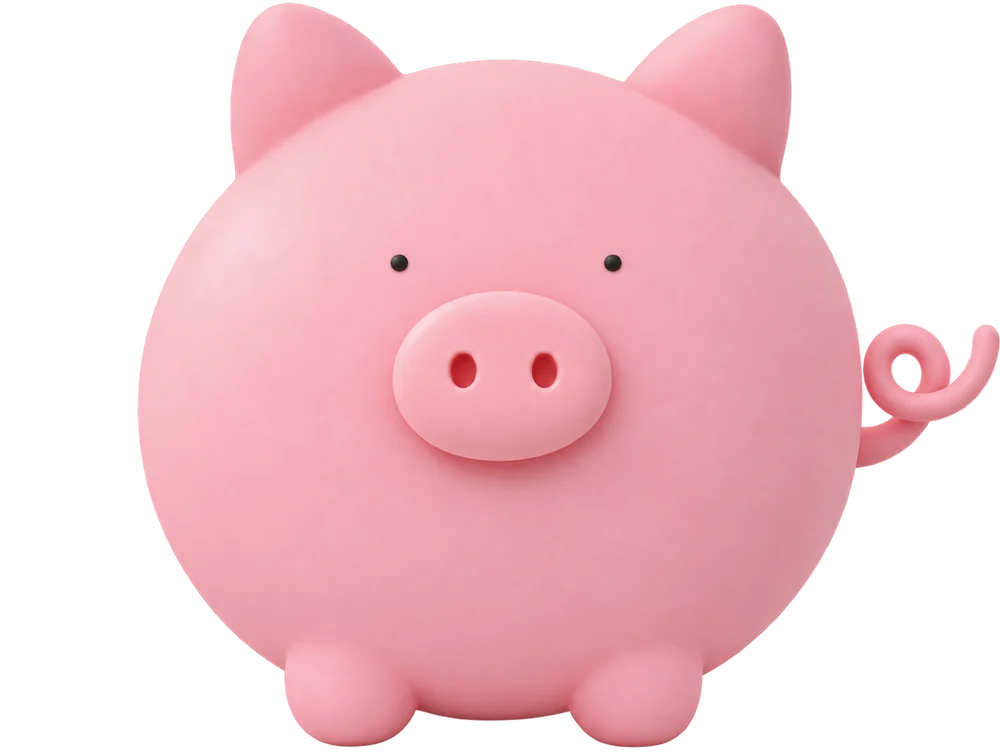
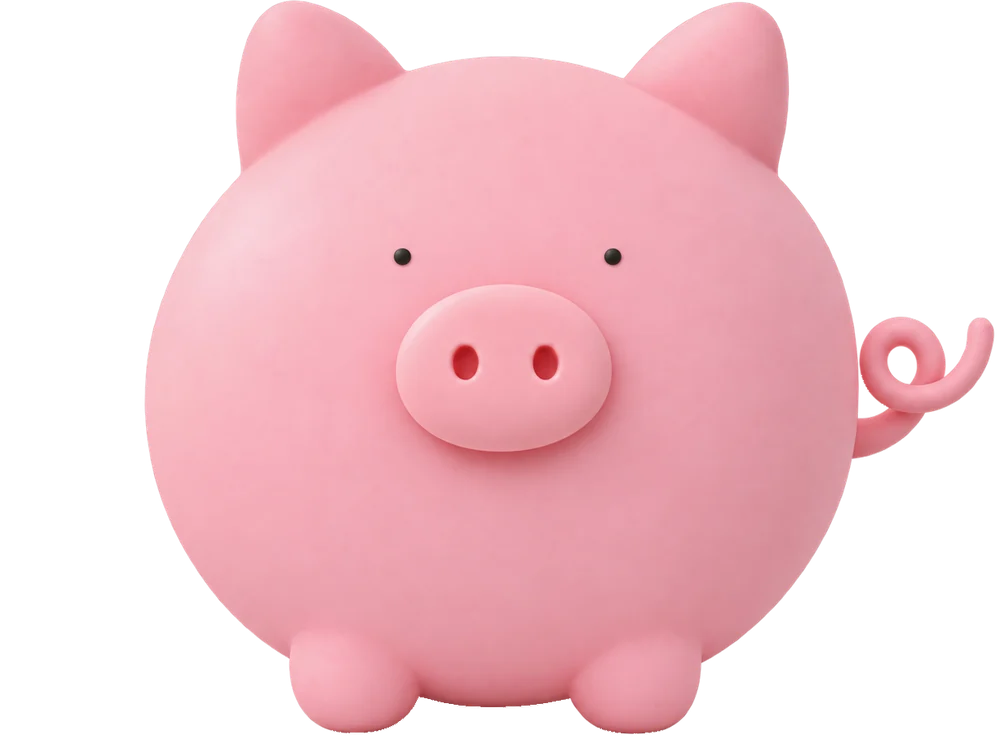
deploy(app): 52f4def 시작 화면 2 돼지 전체 표시, 래치 보호, 냄새 눈금, 표정 이미지

diff --git a/app/app.js b/app/app.js
@@ -1,8 +1,8 @@
 // Oink 사용자용 웹앱: 브라우저가 wss로 브로커에 직접 접속(서버 없음). 판정 로직은 logic.mjs
 import { rate, co2Slope, decompProgress, decompStage, co2TrendText, addFeed, homeState, homeText, stateEvents, addEvents, recent,
-  DEMO_SPEED, DECOMP_END_H, PEAK_H, AMP_DEFAULT, curveH, predictPpm, activity, capPoints, hotFoodStep, HOT_MSG_OFF, HOT_MSG_AUTO, autoRange, CO2_MAX, HOLD_RESEND_MS,
+  DEMO_SPEED, DECOMP_END_H, PEAK_H, AMP_DEFAULT, curveH, predictPpm, activity, capPoints, hotFoodStep, hotHeaterGuard, HOT_MSG_OFF, HOT_MSG_AUTO, HOT_MSG_BLOCKED, autoRange, CO2_MAX, HOLD_RESEND_MS,
   heatModeOf, heaterCmds, restoreMode, dbCo2Points, mergeCo2, pickFeedTs, dqBadge,
-  DB_RAW_MS, db1mPoints, joinAggRaw, dbEvents, mergeEvents, faultWord, deviceNote, ctrlTargetOf } from "./logic.mjs";
+  DB_RAW_MS, db1mPoints, joinAggRaw, dbEvents, mergeEvents, faultWord, deviceNote, ctrlTargetOf, isTwoBoard, b1SrcLabel, srcBadge, co2CardValue, tempCardValue, odorCard, LOCAL_TARGET_C } from "./logic.mjs";
 
 const T = {
   status: "oink/gateway/status",
@@ -11,9 +11,10 @@ const T = {
   cmd: "oink/gateway/cmd",
   ack: "oink/gateway/cmd/ack", // firmware2: {"id","ok","msg"}
 };
-// 펌웨어 #1이 아직 가짜값(USE_FAKE_SENSORS) — 실측 전환 시 false로. CO₂·심부온도 배지가 "시험값"/"실측"으로 바뀐다.
-const FAKE_B1 = true;
-const B1_SRC = FAKE_B1 ? "시험값" : "실측";
+// 현재 2보드(firmware2/oink2_pig)는 가짜값 코드가 없어 #1 값은 모두 실측. true는 가짜값을 쓰는 펌웨어를 붙일 때만.
+const FAKE_B1 = false;
+const b1Src = () => b1SrcLabel(isTwoBoard(gw.tele, gw.status), FAKE_B1);
+const setSrcBadge = (el, val) => { const s = srcBadge(val, b1Src()); el.hidden = !s; el.textContent = s; el.classList.toggle("real", s === "실측"); el.classList.toggle("test", s === "시험값"); };
 const HEAT_TIMEOUT_MS = 10000; // 보낸 모드가 telemetry board2.mode에 반영될 때까지
 const GRAPH_MS = 10 * 60 * 1000;
 const $ = (id) => document.getElementById(id);
@@ -124,8 +125,15 @@ async function pollDbStatus() {
 }
 const co2All = () => mergeCo2(co2Hist, dbPts);
 
-for (const el of document.querySelectorAll(".b1src")) { el.textContent = B1_SRC; el.classList.toggle("real", !FAKE_B1); el.classList.toggle("test", FAKE_B1); }
-if ("serviceWorker" in navigator) navigator.serviceWorker.register("sw.js").catch(() => {});
+if ("serviceWorker" in navigator) {
+  // 새 버전이 활성화되면 한 번 새로고침(캐시 우선이라 안 하면 배포 후 첫 화면이 옛 CSS·JS). 처음 설치(이전 controller 없음)엔 하지 않음.
+  const hadCtrl = !!navigator.serviceWorker.controller;
+  let reloaded = false;
+  navigator.serviceWorker.addEventListener("controllerchange", () => { if (hadCtrl && !reloaded) { reloaded = true; location.reload(); } });
+  navigator.serviceWorker.register("sw.js").then((r) => { // 폰 앱은 켜 둔 채 돌아오는 일이 많아 복귀 때도 확인
+    document.addEventListener("visibilitychange", () => { if (!document.hidden) r.update().catch(() => {}); });
+  }).catch(() => {});
+}
 
 $("devName").value = store.get("oink.dev") || (/Mobi|Android|iPhone/i.test(navigator.userAgent) ? "내 폰" : "내 PC");
 $("devName").addEventListener("change", () => store.set("oink.dev", $("devName").value.trim()));
@@ -163,6 +171,7 @@ const valid = (b1) => b1?.co2_status === 1 && Number.isFinite(b1.co2_ppm);
 
 // ---- 예측(점선) vs 실측(실선) CO₂, x = 투입 후 곡선 시간 0~7일, y = ppm 한 축 ----
 function predGraph(svg, feedTs, now) {
+  setSrcBadge($("srcPred"), null); // 실측선이 그려질 때만 표시
   const W = 320, H = 190, L = 42, R = 10, Tp = 14, B = 24;
   if (!feedTs) { svg.innerHTML = `<text x="${W / 2}" y="${H / 2}" text-anchor="middle" class="sp-empty">음식물을 넣으면 예측 곡선이 그려져요</text>`; return; }
   if (co2Base?.feedTs !== feedTs) { svg.innerHTML = `<text x="${W / 2}" y="${H / 2}" text-anchor="middle" class="sp-empty">투입 후 첫 CO₂ 값을 기다리는 중이에요</text>`; return; }
@@ -200,8 +209,9 @@ function predGraph(svg, feedTs, now) {
     flush();
     for (const p of realV) if (p.flagged) g += `<circle cx="${x(p.h).toFixed(1)}" cy="${y(p.v).toFixed(1)}" r="3.5" class="sp-flag"/>`;
     const l = realV[realV.length - 1];
+    setSrcBadge($("srcPred"), l.v);
     g += `<circle cx="${x(l.h)}" cy="${y(l.v)}" r="4" fill="var(--primary)"/>`;
-    g += `<text x="${Math.min(x(l.h) + 6, W - R - 30)}" y="${y(l.v) + 16}" class="sp-lbl" fill="var(--primary)">${B1_SRC} ${Math.round(l.v)}</text>`;
+    g += `<text x="${Math.min(x(l.h) + 6, W - R - 30)}" y="${y(l.v) + 16}" class="sp-lbl" fill="var(--primary)">${b1Src()} ${Math.round(l.v)}</text>`;
   }
   svg.innerHTML = g;
 }
@@ -257,9 +267,9 @@ function spark(svg, pts, key, unit, color, now) {
 function render() {
   const now = Date.now();
   const fresh = gw.lastSeen && now - gw.lastSeen < 10000;
-  const b1 = fresh ? gw.tele?.board1 : null;
-  const b2 = fresh ? gw.tele?.board2 : null;
-  const hs0 = homeState({ online: gw.online, lastSeen: gw.lastSeen, now, b1 });
+  const b1 = fresh && gw.online ? gw.tele?.board1 : null;
+  const b2 = fresh && gw.online ? gw.tele?.board2 : null;
+  const hs0 = homeState({ online: gw.online, lastSeen: gw.lastSeen, now, b1, b2 });
   // 감지 후 OFF 유지 동안 빨강(알림은 hot_on으로 따로 남기므로 상태 전환 알림에는 넣지 않음)
   const hs = hotSt?.active && hs0.state !== "sleep" ? { state: "alert", reasons: ["hotfood", ...hs0.reasons] } : hs0;
   const online = !!(client?.connected && gw.online && fresh);
@@ -287,7 +297,7 @@ function render() {
   }
   pig.className = `${pigCls}${pig.classList.contains("pop") ? " pop" : ""}`;
   const latched = !!b2?.latched; // firmware2 과열 래치: 해제 = 식은 뒤 off 명령
-  const note = deviceNote(b2); // fault·대체 제어(#1 끊김이면 hs.state는 sleep이라 연결돼 있을 때만)
+  const note = deviceNote(b2); // fault·대체 제어
   const txt = latched && hs.state !== "sleep" && hs.state !== "alert" ? faultWord(b2) || "과열 차단 중이에요 — 식은 뒤 '히터 끄기'로 해제"
     : linked && note && hs.state !== "alert" ? note
     : ecoHome ? "에너지 아끼며 새근새근 낮잠 자는 중… zZ 🐽" : homeText(hs);
@@ -297,16 +307,22 @@ function render() {
   $("conn").className = `pill ${online ? "on" : ""}`;
   $("connText").textContent = !client?.connected ? "재연결 중" : online ? "Oink 연결됨" : "Oink 꺼져 있음";
 
-  const co2ok = b1?.co2_status === 1 && Number.isFinite(b1.co2_ppm);
-  $("vCo2").textContent = co2ok ? Math.round(b1.co2_ppm) : "—";
-  $("nCo2").textContent = !b1 ? "연결 안 됨" : !co2ok ? "센서 준비 중" : hs.reasons.includes("co2") ? "높아요!" : "좋아요";
+  const localCtrl = b2?.ctrl_src === "local"; // 펌웨어가 목표 40℃ 고정, 설정한 목표는 #1 복귀 후 적용
+  const showTgt = ctrlTargetOf(b2);
+  const co2v = co2CardValue(b1), co2ok = co2v != null;
+  setSrcBadge($("srcCo2"), co2v);
+  $("vCo2").textContent = co2ok ? Math.round(co2v) : "—";
+  $("nCo2").textContent = !b1 ? (localCtrl ? "#1 끊김" : "연결 안 됨") : !co2ok ? "센서 준비 중" : hs.reasons.includes("co2") ? "높아요!" : "좋아요";
   $("cCo2").classList.toggle("hot", hs.reasons.includes("co2"));
-  const t = b1?.temp1_c;
-  $("vTemp").textContent = Number.isFinite(t) ? t.toFixed(1) : "—";
-  $("nTemp").textContent = !b1 ? "연결 안 됨" : hs.reasons.includes("hot") ? "너무 뜨거워요!"
-    : Number.isFinite(b2?.target_c) ? `목표 ${b2.target_c.toFixed(1)}℃` : "적당해요";
+  const t = tempCardValue(b1);
+  setSrcBadge($("srcTemp"), t);
+  $("vTemp").textContent = t != null ? t.toFixed(1) : "—";
+  $("nTemp").textContent = hs.reasons.includes("hot") ? "너무 뜨거워요!" : Number.isFinite(showTgt) ? `목표 ${+showTgt.toFixed(1)}℃` : !b1 ? "연결 안 됨" : "적당해요";
   $("cTemp").classList.toggle("hot", hs.reasons.includes("hot"));
-  $("vOdor").textContent = Number.isFinite(b1?.odor_index) ? Math.round(b1.odor_index) : "—";
+  const odor = odorCard(b1);
+  $("vOdor").textContent = odor.text;
+  $("srcOdor").hidden = !odor.badge; $("srcOdor").textContent = odor.badge; $("srcOdor").className = `src ${odor.badge === "실측" ? "real" : "dq"}`;
+  $("odorWarm").hidden = !odor.warm;
 
   const feedTs = lastFeedTs();
   const p = decompProgress(feedTs, now, speed());
@@ -331,20 +347,21 @@ function render() {
   const hb = $("heatBadge");
   if (!b2) { hb.textContent = "연결 안 됨"; hb.className = "badge"; }
   else if (b2.reasons) { hb.textContent = "안전 OFF"; hb.className = "badge warn"; }
+  else if (localCtrl) { hb.textContent = b2.heater_on ? "대체 제어 · 데우는 중" : "대체 제어 · 쉬는 중"; hb.className = "badge warn"; }
   else if (hm === "eco") { hb.textContent = b2.heater_on ? "🌱 절전 가열 중" : "🌱 절전 대기 중"; hb.className = "badge eco"; }
   else { hb.textContent = b2.heater_on ? "데우는 중" : "쉬는 중"; hb.className = `badge ${b2.heater_on ? "good" : ""}`; }
-  $("heatMode").textContent = !b2 ? "연결 안 됨" : hm === "auto" ? "자동" : hm === "eco" ? "🌱 에코 절전" : hm === "off" ? "꺼짐(OFF)" : hm === "on" ? "켜짐(ON)" : "펌웨어 대기";
-  $("ecoNote").hidden = hm !== "eco";
+  $("heatMode").textContent = !b2 ? "연결 안 됨" : hm === "auto" ? "자동" : hm === "eco" ? "🌱 에코 절전" : hm === "off" ? "꺼짐(OFF)" : "펌웨어 대기";
+  $("ecoNote").hidden = hm !== "eco" || localCtrl;
   for (const el of document.querySelectorAll(".latchNote")) {
     el.hidden = !latched;
     el.textContent = `🔒 ${b2?.fault_text === "no_rise" ? faultWord(b2) : "과열 차단(래치) — 식은 뒤 '히터 끄기'로 해제해요"}`;
   }
-  $("devNote").hidden = !note || latched; $("devNote").textContent = note;
+  $("devNote").hidden = !note || latched; $("devNote").textContent = localCtrl && !faultWord(b2) ? `${note} — 지금 목표는 ${LOCAL_TARGET_C}℃ 고정, 모드 설정은 #1 연결이 돌아오면 적용돼요` : note;
   // 홈 모드 칩 + 절전 토글(실제 상태는 telemetry 기준 → 실패하면 자연히 원래 상태로 돌아감)
   const chip = $("modeChip");
   chip.hidden = !hm;
   chip.className = `chip ${hm || ""}`;
-  chip.textContent = hm === "eco" ? "🌱 절전 모드" : hm === "off" ? "히터 꺼짐" : hm === "auto" ? "자동 모드" : hm || "";
+  chip.textContent = localCtrl && hm !== "off" ? `대체 제어 ${LOCAL_TARGET_C}℃` : hm === "eco" ? "🌱 절전 모드" : hm === "off" ? "히터 꺼짐" : hm === "auto" ? "자동 모드" : hm || "";
   const busy = !!pendingHeat && !pendingHeat.auto && (pendingHeat.want === "eco" || pendingHeat.want === "auto");
   const tg = $("ecoToggle");
   tg.hidden = hm === "off";
@@ -355,6 +372,7 @@ function render() {
   tg.disabled = !client?.connected || !hm || busy;
   $("ecoCard").classList.toggle("on", hm === "eco");
   $("ecoSub").textContent = !hm ? "기기와 연결되면 바꿀 수 있어요" : busy ? "기기에 보내는 중…"
+    : localCtrl ? "#1 연결이 돌아오면 적용돼요"
     : hm === "eco" ? "목표 온도 30℃로 낮춰 히터 가동을 줄여요" : "목표 37℃로 분해를 도와요";
   const ct = b2?.ctrl_temp_c ?? b1?.temp1_c;
   $("heatTemps").textContent = !b2 ? "" : [Number.isFinite(ct) ? `${ct.toFixed(1)}℃` + (Number.isFinite(b2.target_c) ? ` → ${ctrlTargetOf(b2)}℃` : "") : "",
@@ -411,8 +429,9 @@ function render() {
     $("liveTitle").textContent = isCo2 ? "CO₂" : "심부 온도";
     $("liveUnit").textContent = unit;
     $("liveWin").textContent = liveMs === 60000 ? "2분" : "60초";
-    $("liveSpan").textContent = `최근 ${liveMs === 60000 ? "60초" : "2분"} · ${B1_SRC}`;
     const lp = pts.filter((q) => now - q.t <= 12000).pop();
+    const liveSrc = srcBadge(lp?.v, b1Src());
+    $("liveSpan").textContent = `최근 ${liveMs === 60000 ? "60초" : "2분"}${liveSrc ? ` · ${liveSrc}` : ""}`;
     $("liveVal").textContent = lp ? lp.v.toFixed(d) : "—";
     const ref = liveBase != null ? pts.find((q) => q.t >= liveBase) : null;
     const dv = ref && lp ? lp.v - ref.v : null;
@@ -497,7 +516,7 @@ function onMessage(topic, buf) {
     }
     return;
   }
-  if (topic === T.status) gw.online = !!msg.online;
+  if (topic === T.status) { gw.online = !!msg.online; gw.status = msg; }
   else if (topic === T.tele) {
     gw.tele = msg; gw.online = true; gw.lastSeen = Date.now();
     const b1 = msg.board1;
@@ -514,12 +533,14 @@ function onMessage(topic, buf) {
     if (now - lastCo2Save > 30000) { lastCo2Save = now; store.set(KEY_CO2, JSON.stringify(co2Hist)); }
     if (client?.connected) {
       const r = hotFoodStep(hotSt, { series: { t1: tempHist }, co2s: co2Hist, now, cur: { t1: b1?.temp1_c } });
-      if (r.st !== hotSt) { hotSt = r.st; store.set(KEY_HOT, JSON.stringify(hotSt)); }
-      if (r.action === "off") {
+      const g = hotHeaterGuard(r, b2, now - lastHoldSend >= HOLD_RESEND_MS);
+      if (g.st !== hotSt) { hotSt = g.st; store.set(KEY_HOT, JSON.stringify(hotSt)); }
+      if (g.blocked) notify("hot_on", HOT_MSG_BLOCKED);
+      else if (g.cmd === "off") {
         const m = heatModeOf(b2); if (m && m !== "off") { preHot = m; store.set(KEY_PREHOT, m); } // 복귀 때 ECO 유지
         notify("hot_on", HOT_MSG_OFF); sendHeater("off", true); lastHoldSend = now;
-      } else if (r.action === "auto") { notify("hot_off", HOT_MSG_AUTO); sendHeater(restoreMode(preHot), true); }
-      else if (hotSt?.active && now - lastHoldSend >= HOLD_RESEND_MS) { // 구 3보드 #2는 30초 무수신이면 auto 복귀 → OFF 재발행(firmware2는 off 유지, 재발행 무해)
+      } else if (g.cmd === "auto") { notify("hot_off", HOT_MSG_AUTO); sendHeater(restoreMode(preHot), true); }
+      else if (g.cmd === "hold") { // 구 3보드 #2는 30초 무수신이면 auto 복귀 → OFF 재발행(firmware2는 off 유지, 래치 중엔 hotHeaterGuard가 막음)
         lastHoldSend = now;
         client.publish(T.cmd, JSON.stringify({ target: "b2", heater: "off" }), { qos: 1 });
       }

diff --git a/app/index.html b/app/index.html
@@ -104,10 +104,10 @@
       <div class="pigwrap sp"><svg class="fl f1" aria-hidden="true"><use href="#i-flower"/></svg><svg class="fl f2" aria-hidden="true"><use href="#i-flower"/></svg><svg class="fl f3" aria-hidden="true"><use href="#i-flower"/></svg><img src="img/pig_happy.webp" alt="" class="sp-pig"></div>
       <p class="sp-title">우리집 미생물</p>
     </div>
-    <!-- 시작 화면 2(목업 2번): 아래에서 고개 내민 돼지, 귀·꼬리는 화면 안 -->
+    <!-- 시작 화면 2(목업 2번): 돼지 전체(귀·발·꼬리)가 화면 안 -->
     <div class="sc sc2" aria-hidden="true">
       <p class="sp-title pink">우리집 미생물</p>
-      <div class="peek"><span class="pk"><svg class="lines" viewBox="0 0 80 50"><path d="M12 40 l-8 -14 M34 32 l-2 -20 M52 36 l10 -16" stroke="#3D2E2E" stroke-width="5" stroke-linecap="round" fill="none"/></svg><img src="img/pig_base_lg.webp" alt="" width="1000" height="755"></span></div>
+      <div class="peek"><span class="pk"><svg class="lines" viewBox="0 0 80 50"><path d="M12 40 l-8 -14 M34 32 l-2 -20 M52 36 l10 -16" stroke="#3D2E2E" stroke-width="5" stroke-linecap="round" fill="none"/></svg><img src="img/pig_base_lg.webp" alt="" width="1000" height="739"></span></div>
     </div>
     <p class="sp-hint"><span class="lbl"><span class="dots"><i></i><i></i></span>탭해서 계속</span></p>
   </div>
@@ -138,12 +138,12 @@
       <div id="tab-home" class="tab" role="tabpanel" aria-labelledby="tb-home">
         <article class="hero calm" id="hero">
           <p class="bubble"><svg class="bell" aria-hidden="true"><use href="#i-bell"/></svg><span id="moodText">쿨쿨 자는 중… 💤</span></p>
-          <div class="pigwrap"><svg class="fl f1" aria-hidden="true"><use href="#i-flower"/></svg><svg class="fl f2" aria-hidden="true"><use href="#i-flower"/></svg><svg class="fl f3" aria-hidden="true"><use href="#i-flower"/></svg><svg class="zz" aria-hidden="true"><use href="#i-zz"/></svg><img id="pig" class="pig calm" src="img/pig_base.webp" alt="Oink: 연결 중" width="600" height="453"></div>
+          <div class="pigwrap"><svg class="fl f1" aria-hidden="true"><use href="#i-flower"/></svg><svg class="fl f2" aria-hidden="true"><use href="#i-flower"/></svg><svg class="fl f3" aria-hidden="true"><use href="#i-flower"/></svg><svg class="zz" aria-hidden="true"><use href="#i-zz"/></svg><img id="pig" class="pig calm" src="img/pig_base.webp" alt="Oink: 연결 중" width="600" height="443"></div>
         </article>
 
         <div class="grid2">
-          <article class="card stat tap" id="cCo2" role="button" tabindex="0" data-live="co2" aria-label="CO₂ 실시간 그래프 보기"><p class="kicker"><svg class="ic" aria-hidden="true"><use href="#i-cloud"/></svg>CO₂ 농도</p><p class="big"><span id="vCo2">—</span><small>ppm</small></p><p id="nCo2" class="num"></p><p class="num tiny"><span class="src real b1src">실측</span> <span class="src dq" id="dqCo2" hidden></span></p></article>
-          <article class="card stat tap" id="cTemp" role="button" tabindex="0" data-live="t1" aria-label="심부 온도 실시간 그래프 보기"><p class="kicker"><svg class="ic" aria-hidden="true"><use href="#i-thermo"/></svg>내부 온도</p><p class="big"><span id="vTemp">—</span><small>℃</small></p><p id="nTemp" class="num"></p><p class="num tiny"><span class="src real b1src">실측</span> <span class="src dq" id="dqTemp" hidden></span></p></article>
+          <article class="card stat tap" id="cCo2" role="button" tabindex="0" data-live="co2" aria-label="CO₂ 실시간 그래프 보기"><p class="kicker"><svg class="ic" aria-hidden="true"><use href="#i-cloud"/></svg>CO₂ 농도</p><p class="big"><span id="vCo2">—</span><small>ppm</small></p><p id="nCo2" class="num"></p><p class="num tiny"><span class="src real" id="srcCo2" hidden></span> <span class="src dq" id="dqCo2" hidden></span></p></article>
+          <article class="card stat tap" id="cTemp" role="button" tabindex="0" data-live="t1" aria-label="심부 온도 실시간 그래프 보기"><p class="kicker"><svg class="ic" aria-hidden="true"><use href="#i-thermo"/></svg>내부 온도</p><p class="big"><span id="vTemp">—</span><small>℃</small></p><p id="nTemp" class="num"></p><p class="num tiny"><span class="src real" id="srcTemp" hidden></span> <span class="src dq" id="dqTemp" hidden></span></p></article>
           <article class="card stat tap" id="cAct" role="button" tabindex="0" aria-label="분해 활성 분석 보기"><p class="kicker"><svg class="ic" aria-hidden="true"><use href="#i-bars"/></svg>예측 대비 발생량</p><p class="big"><span id="vAct">—</span></p><p id="nAct" class="num">음식물을 넣으면 보여요</p><p class="num tiny"><span class="src model">모델 추정치</span> <span class="badge demo" hidden>시연 배속</span></p></article>
           <article class="card stat" id="cFeed"><p class="kicker"><svg class="ic" aria-hidden="true"><use href="#i-clock"/></svg>최근 투입</p><p class="big"><span id="vFeed">—</span></p><p id="nFeed" class="num"></p><p class="num tiny">투입 기록</p></article>
         </div>
@@ -162,7 +162,7 @@
 
       <!-- 실시간 그래프(홈 CO₂·심부온도 카드에서 진입) -->
       <div id="tab-live" class="tab" role="region" aria-label="실시간 그래프" hidden>
-        <div class="row between"><button type="button" id="liveBack" class="ghost small">← 홈</button><span id="liveSpan" class="badge">최근 2분 · 실측</span></div>
+        <div class="row between"><button type="button" id="liveBack" class="ghost small">← 홈</button><span id="liveSpan" class="badge">최근 2분</span></div>
         <article class="card">
           <p class="kicker" id="liveTitle">CO₂</p>
           <p class="big live"><span id="liveVal">—</span><small id="liveUnit">ppm</small></p>
@@ -180,7 +180,7 @@
           <div class="card-head"><p class="kicker">CO₂ 변화</p><span class="row"><span class="badge demo" hidden>시연 배속 · 이스트 양성 대조</span><span id="ampBadge" class="badge">보정 전</span></span></div>
           <svg id="gPred" class="spark" viewBox="0 0 320 190" role="img" aria-label="음식물 투입 후 예상 CO₂(점선), 예측 범위(회색 띠), 실측 CO₂(실선)"></svg>
           <p class="legend"><span><i class="lg-pred"></i>예상값</span><span><i class="lg-band"></i>예측 범위</span><span><i class="lg-real"></i>실측값</span></p>
-          <p class="muted tiny"><span class="src model">모델 추정치</span> <span class="src real b1src">실측</span></p>
+          <p class="muted tiny"><span class="src model">모델 추정치</span> <span class="src real" id="srcPred" hidden></span></p>
         </article>
         <article class="card center-card">
           <p class="kicker">예측 대비 발생량</p>
@@ -197,7 +197,7 @@
         </article>
         <p class="muted">앱을 열어 둔 동안 쌓여요. 닫으면 처음부터 다시 쌓여요.</p>
         <div class="grid2">
-          <article class="card stat"><p class="kicker">냄새 지수</p><p class="big"><span id="vOdor">—</span></p><p class="num">0~100</p><p class="num tiny"><span class="src test">시험값</span> MQ 예열 중</p></article>
+          <article class="card stat"><p class="kicker">냄새 지수</p><p class="big"><span id="vOdor">—</span></p><p class="num">깨끗한 공기 = 1</p><p class="num tiny"><span class="src dq" id="srcOdor" hidden></span> <span class="src dq" id="odorWarm" hidden>예열 중</span></p></article>
           <article class="card stat" id="cProg"><p class="kicker">분해 진행 <span class="badge demo" hidden>시연 배속</span></p><div class="bar"><div id="progBar"></div></div><p id="progText" class="num">음식물을 넣으면 보여요</p><p id="progAct" class="num act"></p><p id="progTrend" class="num"></p><p class="num tiny"><span class="src model">모델 추정치</span></p></article>
         </div>
         <article class="card">

diff --git a/app/style.css b/app/style.css
@@ -264,8 +264,8 @@ body { background: #FFFDFC; }
 
 /* ---- 3D 목업(img_src/mockup_3d.png): 이미지 돼지, 입체 꽃, 탭 넘김 시작 화면, 은은한 입체 톤 ---- */
 body { background: #FFFFFF; }
-/* 이미지 캔버스는 몸통(꼬리 제외) 중심 = 가로 중앙(세 표정 공통 크롭). 왼쪽 13.8%는 빈 여백이라 몸통 크기 유지 위해 230→267 */
-.pigwrap { position: relative; width: 267px; margin: 0 auto; }
+/* 이미지 캔버스는 몸통(꼬리 제외) 중심 = 가로 중앙(세 표정 공통 크롭). 몸통은 폭의 14.7~85.3%(나머지는 꼬리·💢 자리), 표정 바뀌어도 몸통 위치 고정 */
+.pigwrap { position: relative; width: 272px; margin: 0 auto; }
 .pig { display: block; width: 100%; height: auto; filter: drop-shadow(0 14px 16px rgba(214, 120, 140, .22)); transform-origin: 50% 90%; }
 .pig.calm { animation: breathe 3.2s ease-in-out infinite; }
 .pig.alert { animation: shake .5s ease-in-out infinite; }
@@ -288,16 +288,16 @@ button.primary, .seg button[aria-pressed=true] { background: linear-gradient(180
 .hero .bubble { box-shadow: 0 4px 12px -6px rgba(0, 0, 0, .18); }
 /* 시작 화면 */
 .splash { outline: none; }
-.splash .sc1 .pigwrap { width: min(72vw, 302px); }
+.splash .sc1 .pigwrap { width: min(73.4vw, 308px); }
 .sp-hint { position: absolute; left: 0; right: 0; bottom: calc(22px + env(safe-area-inset-bottom)); margin: 0; display: flex; flex-direction: column; align-items: center; gap: 8px; color: var(--muted); font-size: .8rem; font-weight: 700; z-index: 2; }
 .sp-hint .lbl { display: flex; flex-direction: column; align-items: center; gap: 6px; padding: 8px 16px; border-radius: 18px; background: rgba(255, 255, 255, .85); }
 
 /* ---- 3D 젤리 스타일(아이콘 스프라이트 #i-*, #t-*): 표현만 ---- */
 .sprite { position: absolute; width: 0; height: 0; overflow: hidden; }
 .fl { position: absolute; z-index: 1; width: 36px; height: 36px; filter: drop-shadow(0 4px 3px rgba(200, 140, 0, .28)); }
-.fl.f1 { left: calc(13.8% - 18px); top: 18px; transform: rotate(-14deg); }
-.fl.f2 { right: -14px; top: -2px; width: 31px; height: 31px; transform: rotate(18deg); }
-.fl.f3 { left: calc(13.8% - 8px); bottom: 4px; width: 28px; height: 28px; transform: rotate(6deg); }
+.fl.f1 { left: calc(14.7% - 30px); top: 18px; transform: rotate(-14deg); }
+.fl.f2 { right: calc(14.7% - 30px); top: 18px; width: 31px; height: 31px; transform: rotate(18deg); }
+.fl.f3 { left: calc(14.7% - 8px); bottom: 4px; width: 28px; height: 28px; transform: rotate(6deg); }
 .hero.calm .fl { animation: twinkle 2.8s ease-in-out infinite; }
 .hero.calm .fl.f2 { animation-delay: .6s; } .hero.calm .fl.f3 { animation-delay: 1.2s; }
 @keyframes twinkle { 50% { translate: 0 -3px; scale: 1.08; } }
@@ -306,7 +306,7 @@ button.primary, .seg button[aria-pressed=true] { background: linear-gradient(180
 .hero.alert .bell { animation: ring 1s ease-in-out infinite; transform-origin: 50% 10%; }
 @keyframes ring { 10%, 30% { rotate: -14deg; } 20%, 40% { rotate: 14deg; } 50% { rotate: 0deg; } }
 /* 끊김: 회색 돼지 + zZ */
-.zz { position: absolute; right: -6px; top: -4px; width: 44px; height: 44px; z-index: 2; display: none; filter: drop-shadow(0 2px 2px rgba(80, 70, 120, .25)); }
+.zz { position: absolute; right: calc(14.7% - 30px); top: -4px; width: 44px; height: 44px; z-index: 2; display: none; filter: drop-shadow(0 2px 2px rgba(80, 70, 120, .25)); }
 .hero.sleep .zz { display: block; animation: drift 2.4s ease-in-out infinite; }
 @keyframes drift { 50% { translate: 3px -5px; opacity: .7; } }
 /* 하단 탭: 활성 = 핑크 젤리 + 하이라이트, 비활성 = 회색 평면(대비 3:1 이상) */
@@ -415,18 +415,20 @@ button:active:not(:disabled) { box-shadow: inset 0 3px 6px rgba(160, 80, 100, .2
 .spark .sp-flag { fill: #fff; stroke: #9E9393; stroke-width: 2; }
 .src.dq { background: #EEE8E8; color: #5E5050; }
 
-/* 시작 화면 2(목업 2번, 스플래시 2번 복원): 몸통 중심 = 가로 중앙(pig_base_lg는 홈 돼지와 같은 크롭), 귀·꼬리는 화면 안, 코 아래부터 화면 밖 */
-.splash .sc2 { opacity: 0; pointer-events: none; justify-content: flex-start; padding-top: 14vh; overflow: hidden; }
+/* 시작 화면 2(목업 2번): 몸통 중심 = 가로 중앙(pig_base_lg는 홈 돼지와 같은 크롭). 제목+돼지 전체를 "탭해서 계속" 위 공간 가운데에 배치.
+   --pw = 폭 90vw·520px·세로 여유 중 최솟값. --rest = 안내 84px + 제목·여백 86px, .85 = 돼지 높이 .739 + 제목 간격 .11 */
+.splash .sc2 { --rest: calc(170px + env(safe-area-inset-top) + env(safe-area-inset-bottom)); --pw: min(90vw, 520px, calc((100vh - var(--rest)) / .85)); opacity: 0; pointer-events: none; gap: calc(var(--pw) * .11); padding: env(safe-area-inset-top) 0 calc(84px + env(safe-area-inset-bottom)); }
+@supports (height: 100dvh) { .splash .sc2 { --pw: min(90vw, 520px, calc((100dvh - var(--rest)) / .85)); } }
 .splash.two .sc1 { opacity: 0; pointer-events: none; }
 .splash.two .sc2 { opacity: 1; }
 .sp-title.pink { color: #D9536E; font-size: 2.3rem; }
-.peek { --pw: min(90vw, 520px); position: absolute; left: 0; right: 0; bottom: 0; height: calc(var(--pw) * .755 * .70); } /* 아래쪽은 .sc2 overflow:hidden(화면 끝)이 자름 — 효과선이 잘리지 않게 여기선 자르지 않음 */
-.peek .pk { position: absolute; left: 50%; top: 0; width: var(--pw); transform: translateX(-50%); }
+.peek { flex: none; width: var(--pw); }
+.peek .pk { display: block; position: relative; }
 .peek img { display: block; width: 100%; height: auto; filter: drop-shadow(0 -6px 18px rgba(214, 120, 140, .18)); }
 .peek .lines { position: absolute; left: 9%; top: -6%; width: 16%; transform: translateY(-60%); }
 .sp-hint .dots { display: flex; gap: 6px; }
 .sp-hint .dots i { width: 7px; height: 7px; border-radius: 50%; background: #E8D8DA; }
 .splash:not(.two) .sp-hint .dots i:first-child, .splash.two .sp-hint .dots i:last-child { background: var(--brand); }
-.splash.two .sp-hint { color: #3D2E2E; bottom: calc(min(90vw, 520px) * .755 * .70 + 18px); }
+.splash.two .sp-hint { color: #3D2E2E; }
 
 .sp-hint .lbl { color: #3D2E2E; }

diff --git a/app/sw.js b/app/sw.js
@@ -1,5 +1,5 @@
 // 앱 셸만 캐시(cache-first). MQTT(wss)·unpkg·Supabase 등 외부 요청은(다른 origin → 네트워크 전용) 건드리지 않는다.
-const CACHE = "oink-shell-v19";
+const CACHE = "oink-shell-v22";
 const SHELL = ["./", "index.html", "app.js", "logic.mjs", "style.css", "manifest.webmanifest",
   "img/pig_base.webp", "img/pig_happy.webp", "img/pig_angry.webp", "img/pig_base_lg.webp",
   "icons/icon-192.png", "icons/icon-512.png", "icons/icon-512-maskable.png", "icons/apple-touch-icon.png"];

diff --git a/app/README.md b/app/README.md
@@ -20,4 +20,4 @@
 `app.js`의 `BROKER`를 `wss://broker.emqx.io:8084/mqtt`로 바꿔서 로컬에서 열고, 아이디·비밀번호 비움(커밋 금지). 공개라 누구나 같은 토픽을 볼 수 있으니 테스트 전용. 평소엔 주소 고정이라 로그인 화면엔 아이디(기본 `oink-web`)·비밀번호만 있다.
 - 기본 계정 oink-web/oink-web이 채워져 있음 — 공개 사이트라 누구나 접속 가능, 비공개가 필요하면 EMQX에서 비번 변경 후 기본값 제거.
 - 로그인 유지는 기기에 비번을 저장함 — 공용 기기에서는 체크 해제. 로그아웃하면 저장된 정보가 지워진다.
-- 시험값 배지: `app.js`의 `FAKE_B1 = true`(펌웨어 #1 가짜값 동안 CO₂·심부온도를 "시험값"으로 표시). 실측 전환 시 false로.
+- 출처 배지: 2보드(firmware2, 가짜값 모드 없음)는 자동으로 "실측". 구 3보드 펌웨어면 `app.js`의 `FAKE_B1`에 따라 "시험값".
